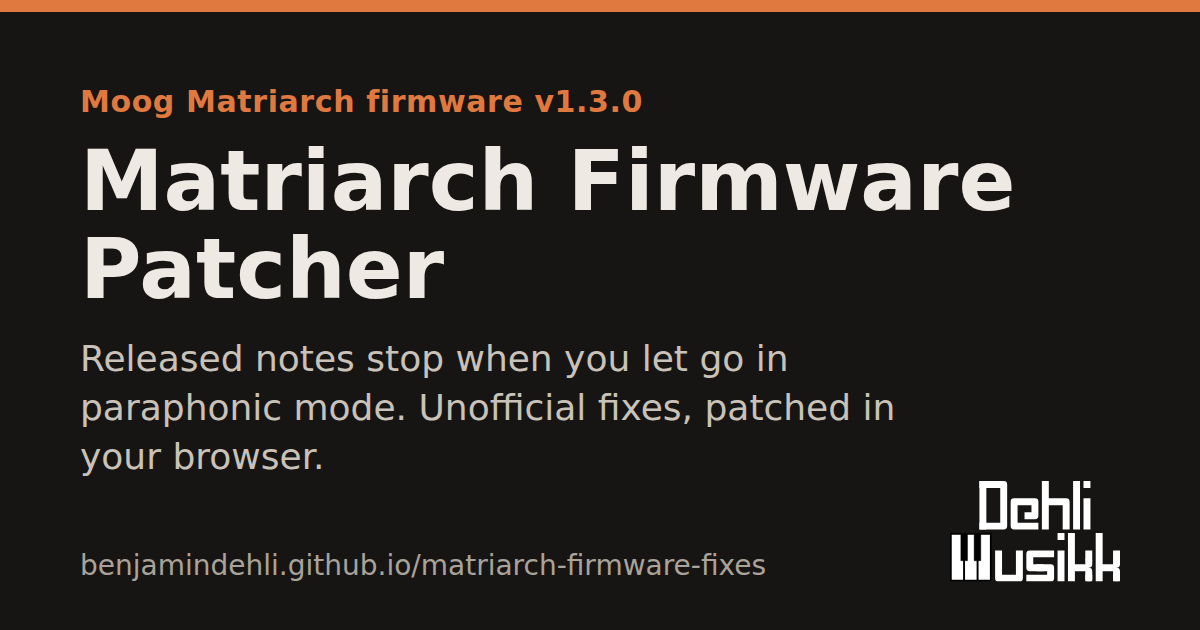
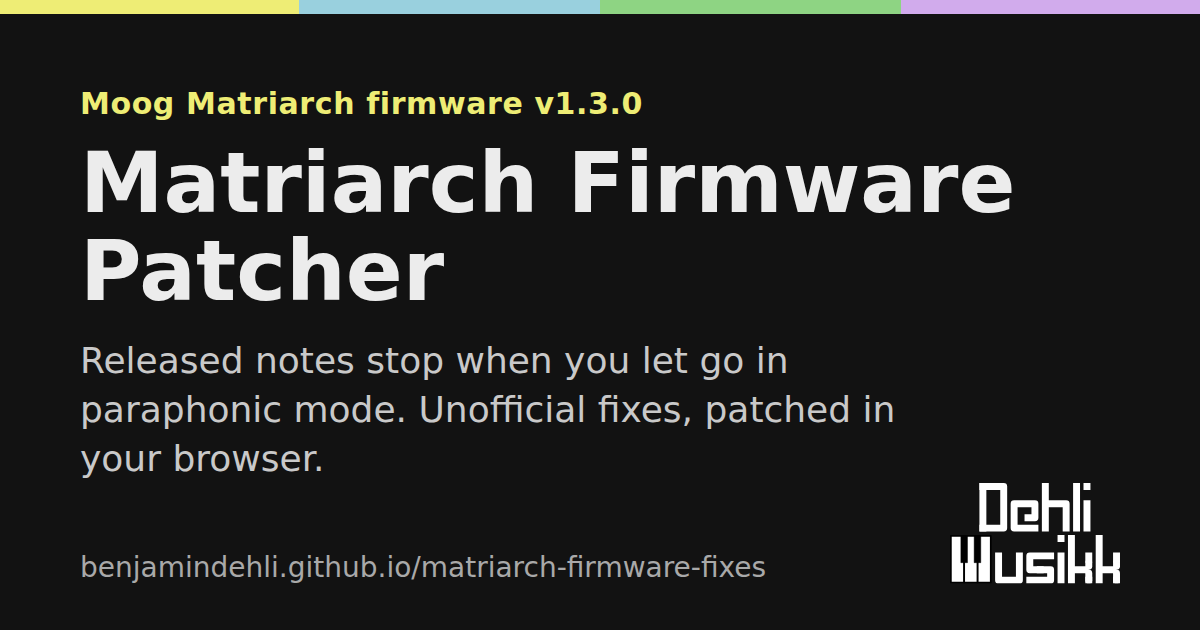
Use Matriarch faceplate colours

diff --git a/web/style.css b/web/style.css
@@ -3,31 +3,36 @@
 
 :root {
     color-scheme: light dark;
-    --bg: #f6f3ee;
+    /* Section colours sampled from the Matriarch faceplate */
+    --yellow: #eeed75; /* Arp/Seq */
+    --blue: #99d0de; /* Oscillators */
+    --green: #8ed483; /* Filters */
+    --lavender: #d1abec; /* Stereo Delay */
+    --orange: #fd8b56; /* lit Sync and Multi Trig buttons */
+    --black: #1f1f1f; /* panel */
+    --on-panel: #161616;
+    --on-panel-muted: #3d3d3d;
+
+    --bg: #f3f2ee;
     --surface: #ffffff;
-    --text: #1d1b19;
-    --muted: #5f5953;
-    --border: #ddd6cc;
-    --accent: #b4531f;
-    --accent-text: #ffffff;
-    --ok: #1f7a46;
-    --warn: #8a5a00;
-    --error: #b3261e;
+    --text: #161616;
+    --muted: #57534e;
+    --border: #d9d6cf;
+    --accent: #a3401a;
+    --ok: #14532d;
+    --warn: #6b3d00;
+    --error: #9b1c1c;
     --focus: #1a5fb4;
 }
 
 @media (prefers-color-scheme: dark) {
     :root {
-        --bg: #171513;
-        --surface: #221f1c;
-        --text: #eee9e2;
-        --muted: #aaa39a;
-        --border: #3b3631;
-        --accent: #e0793f;
-        --accent-text: #1d1b19;
-        --ok: #5cc98a;
-        --warn: #e8b34a;
-        --error: #f2827a;
+        --bg: #121212;
+        --surface: #1f1f1f;
+        --text: #ececec;
+        --muted: #a9a9a9;
+        --border: #333333;
+        --accent: #fd8b56;
         --focus: #8ab4f8;
     }
 }
@@ -84,8 +89,20 @@ main:focus {
     gap: 1rem;
     flex-wrap: wrap;
     padding-bottom: 1rem;
-    border-bottom: 1px solid var(--border);
     font-size: 0.95rem;
+}
+
+/* The four section colours of the faceplate, in panel order */
+.stripe {
+    height: 6px;
+    border-radius: 3px;
+    background: linear-gradient(
+        to right,
+        var(--yellow) 0 25%,
+        var(--blue) 25% 50%,
+        var(--green) 50% 75%,
+        var(--lavender) 75%
+    );
 }
 
 .site-header .home {
@@ -152,7 +169,7 @@ code {
 }
 
 .notice {
-    border-left: 4px solid var(--accent);
+    border-left: 4px solid var(--orange);
     background: var(--surface);
     padding: 0.75rem 1rem;
     border-radius: 0 8px 8px 0;
@@ -174,13 +191,16 @@ table {
 th,
 td {
     text-align: left;
-    padding: 0.5rem 0.75rem 0.5rem 0;
+    padding: 0.5rem 0.75rem;
     border-bottom: 1px solid var(--border);
     vertical-align: top;
 }
 
 th {
     font-weight: 600;
+    background: var(--lavender);
+    color: var(--on-panel);
+    padding-left: 0.75rem;
 }
 
 /* ---- links row (source, star, follow) ---------------------------------- */
@@ -208,8 +228,8 @@ th {
 }
 
 .links a:hover {
-    border-color: var(--accent);
-    color: var(--accent);
+    border-color: var(--orange);
+    color: var(--text);
 }
 
 .links svg {
@@ -224,20 +244,43 @@ th {
     display: inline-grid;
     place-items: center;
     flex: none;
-    width: 1.7rem;
-    height: 1.7rem;
+    width: 1.8rem;
+    height: 1.8rem;
     border-radius: 50%;
-    background: var(--accent);
-    color: var(--accent-text);
+    background: var(--black);
+    color: #ffffff;
     font-size: 0.9rem;
 }
 
 section.card {
-    background: var(--surface);
-    border: 1px solid var(--border);
-    border-radius: 12px;
+    /* The panels are light in both themes, so form controls should be drawn light too */
+    color-scheme: light;
+    --panel: var(--surface);
+    background: var(--panel);
+    color: var(--on-panel);
+    border-radius: 6px;
     padding: 1.25rem;
     margin: 1rem 0;
+}
+
+#patcher section.card:nth-child(1) {
+    --panel: var(--yellow);
+}
+
+#patcher section.card:nth-child(2) {
+    --panel: var(--blue);
+}
+
+#patcher section.card:nth-child(3) {
+    --panel: var(--green);
+}
+
+section.card .hint {
+    color: var(--on-panel-muted);
+}
+
+section.card a:not(.button) {
+    color: var(--on-panel);
 }
 
 section.card h2 {
@@ -254,8 +297,8 @@ section.card[aria-disabled="true"] {
 
 .drop {
     display: block;
-    border: 2px dashed var(--border);
-    border-radius: 10px;
+    border: 2px dashed rgba(0, 0, 0, 0.4);
+    border-radius: 6px;
     padding: 1.5rem 1rem;
     text-align: center;
     cursor: pointer;
@@ -266,7 +309,8 @@ section.card[aria-disabled="true"] {
 
 .drop:hover,
 .drop.dragging {
-    border-color: var(--accent);
+    border-color: var(--black);
+    background: rgba(255, 255, 255, 0.35);
 }
 
 .drop:focus-within {
@@ -282,7 +326,7 @@ section.card[aria-disabled="true"] {
 }
 
 .drop strong {
-    color: var(--accent);
+    text-decoration: underline;
 }
 
 .status {
@@ -327,37 +371,41 @@ legend {
 
 .option input[type="radio"] {
     margin-top: 0.3rem;
-    accent-color: var(--accent);
+    accent-color: var(--black);
 }
 
 .option small {
     display: block;
-    color: var(--muted);
+    color: var(--on-panel-muted);
 }
 
 input[type="number"] {
     width: 5.5rem;
     font: inherit;
     padding: 0.2rem 0.4rem;
-    border: 1px solid var(--border);
-    border-radius: 6px;
-    background: var(--bg);
-    color: var(--text);
+    border: 1px solid var(--black);
+    border-radius: 4px;
+    background: #ffffff;
+    color: var(--on-panel);
 }
 
 .button {
     display: inline-block;
-    background: var(--accent);
-    color: var(--accent-text);
-    font-weight: 600;
+    background: var(--orange);
+    color: var(--on-panel);
+    font-weight: 700;
     text-decoration: none;
     padding: 0.7rem 1.2rem;
-    border-radius: 8px;
+    border-radius: 6px;
+    box-shadow:
+        0 0 0 2px var(--black),
+        0 0 14px rgba(253, 139, 86, 0.55);
 }
 
 .button[aria-disabled="true"] {
-    background: var(--border);
-    color: var(--muted);
+    background: rgba(0, 0, 0, 0.12);
+    color: var(--on-panel-muted);
+    box-shadow: 0 0 0 2px rgba(0, 0, 0, 0.25);
     pointer-events: none;
 }
 
@@ -421,4 +469,10 @@ footer {
 noscript p {
     color: var(--error);
     font-weight: 600;
+}
+
+/* The dark-mode focus colour is too light on the pastel panels */
+section.card :focus-visible,
+section.card .drop:focus-within {
+    outline-color: var(--black);
 }

diff --git a/web/index.html b/web/index.html
@@ -16,8 +16,8 @@
             type="text/markdown"
             href="https://benjamindehli.github.io/matriarch-firmware-fixes/index.html.md"
         />
-        <meta name="theme-color" content="#f6f3ee" media="(prefers-color-scheme: light)" />
-        <meta name="theme-color" content="#171513" media="(prefers-color-scheme: dark)" />
+        <meta name="theme-color" content="#f3f2ee" media="(prefers-color-scheme: light)" />
+        <meta name="theme-color" content="#121212" media="(prefers-color-scheme: dark)" />
 
         <meta property="og:type" content="website" />
         <meta property="og:site_name" content="Matriarch Firmware Fixes" />
@@ -221,6 +221,7 @@
                     </ul>
                 </nav>
             </header>
+            <div class="stripe" aria-hidden="true"></div>
 
             <main id="main" tabindex="-1">
                 <h1>Matriarch Firmware Patcher</h1>

diff --git a/web/404.html b/web/404.html
@@ -21,6 +21,7 @@
             <header class="site-header">
                 <a class="home" href="/matriarch-firmware-fixes/">Matriarch Firmware Fixes</a>
             </header>
+            <div class="stripe" aria-hidden="true"></div>
 
             <main id="main" tabindex="-1">
                 <h1>That page isn't here</h1>
